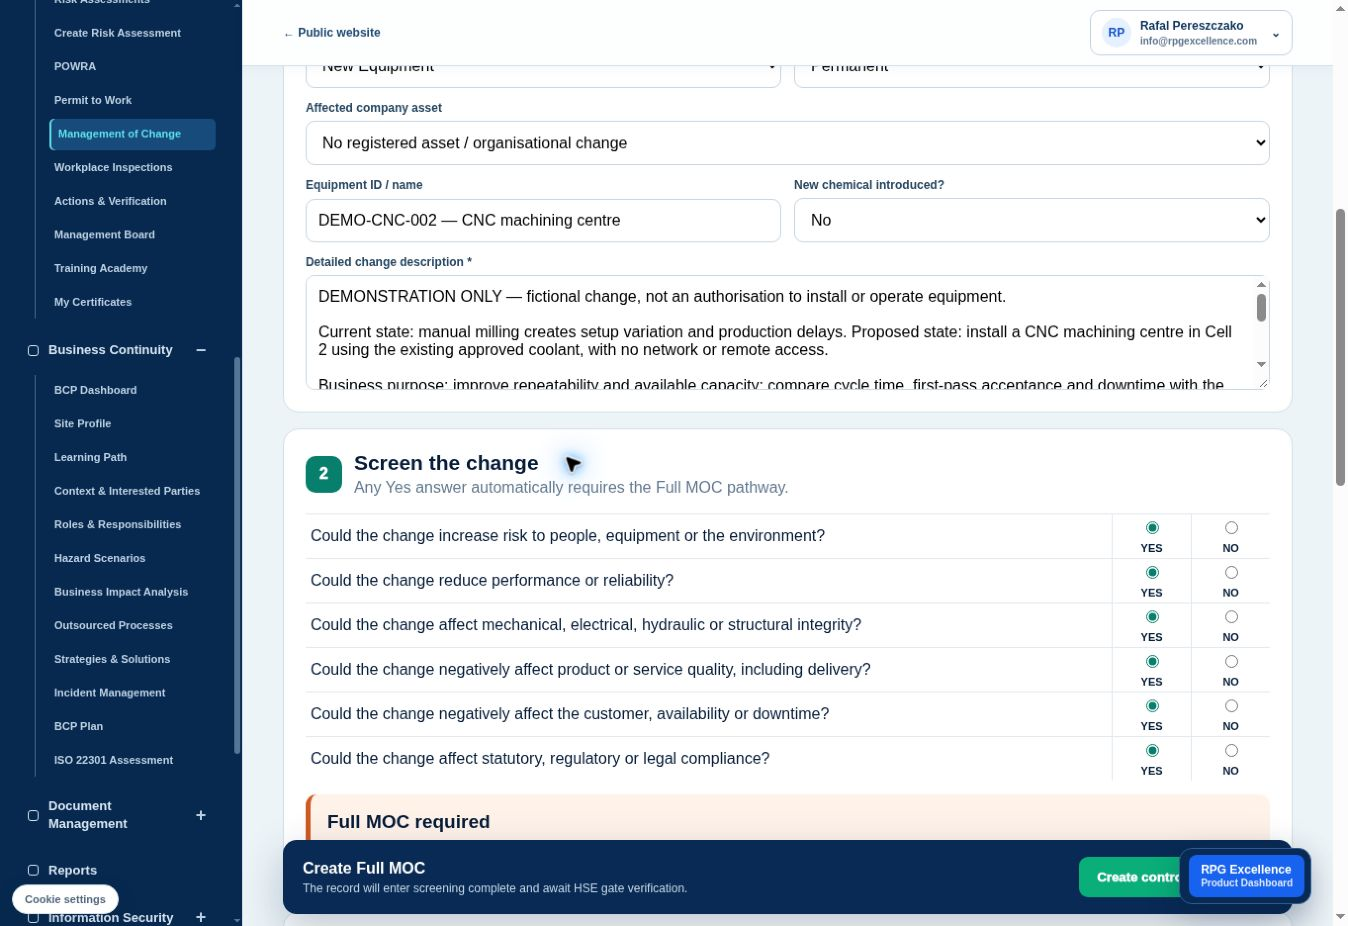
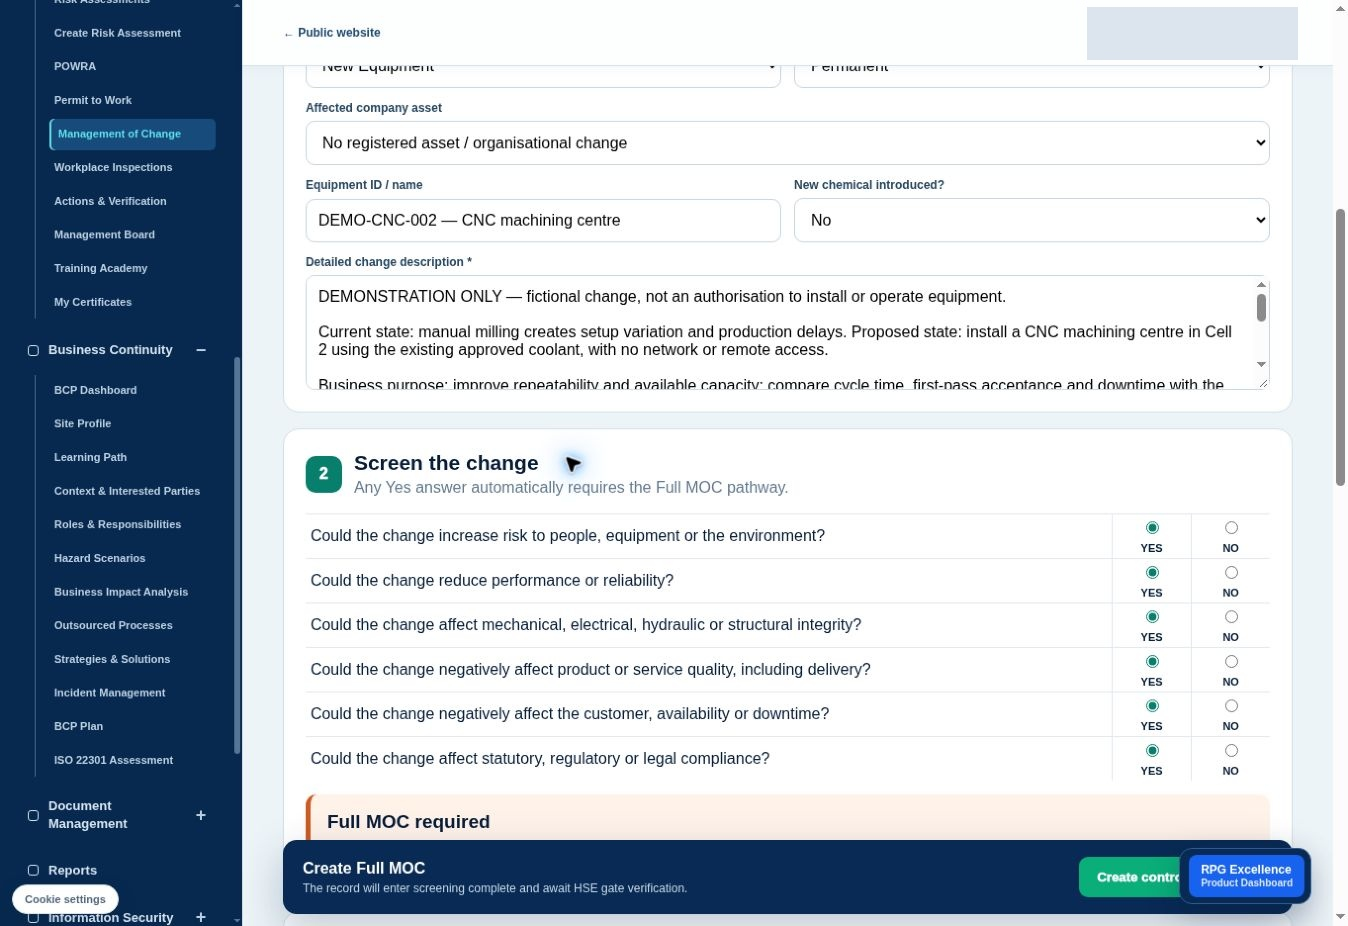
Remove personal name from MOC and risk assessment walkthrough screenshots

Changed region(s): [[0.7789, 0.0, 0.9659, 0.0907]]

diff --git a/app/[locale]/how-it-works/risk-assessments/page.js b/app/[locale]/how-it-works/risk-assessments/page.js
@@ -13,7 +13,7 @@ export default async function RiskAssessmentWalkthrough({params}){
  <nav className={styles.jump} aria-label="Risk assessment walkthrough sections"><a href="#starting-point">01 / Starting point</a><a href="#inside-workflow">02 / Saved workflow</a><a href="#pdf-outputs">03 / Original &amp; updated PDFs</a></nav>
  <section id="starting-point" className={styles.section} aria-labelledby="start-title"><p className={styles.eyebrow}>01 / FIND YOUR WAY IN</p><h2 id="start-title">Start with the work.<br/>Return to its controlled record.</h2><p className={styles.intro}>The register brings status, residual ratings, open actions and review dates together. Its counts here come from fictional demonstration records.</p><div className={styles.startGrid}><figure className={styles.screen}><a href={asset+'register.jpg'} target="_blank" rel="noreferrer" aria-label="Enlarge risk assessment register"><img src={asset+'register.jpg'} width="1348" height="926" alt="Actual register showing approved version 2 and superseded version 1" loading="lazy"/></a><figcaption>Real register after the demonstration revision. Version 2 is Approved; version 1 is Superseded. Open actions remain visible.</figcaption></figure><div className={styles.entrySteps}><article><span>01</span><div><h3>Open the H&amp;S dashboard</h3><p>Use Risk Assessments in the platform navigation.</p><Link href="/portal/health-safety">H&amp;S dashboard →</Link></div></article><article><span>02</span><div><h3>Find a saved assessment</h3><p>Search the register or use its Active, Elevated risk, Reviews due, Approved and Archived views.</p><Link href="/portal/health-safety/risk-assessment">Risk register →</Link></div></article><article><span>03</span><div><h3>Create a separate assessment</h3><p>Define the title, task, site, department, assessor and people affected before recording hazards.</p><Link href="/portal/health-safety/risk-assessment/new">New assessment →</Link></div></article></div></div></section>
  <section id="inside-workflow" className={styles.section} aria-labelledby="steps-title"><p className={styles.eyebrow}>02 / INSIDE THE WORKSPACE</p><h2 id="steps-title">Save the assessment.<br/>Review the change.</h2><p className={styles.intro}>Select a card to see where the risk decision, review and revision are recorded.</p><RiskSteps/></section>
- <section id="pdf-outputs" className={styles.section} aria-labelledby="pdf-title"><p className={styles.eyebrow}>03 / ACTUAL RPG-GENERATED OUTPUTS</p><h2 id="pdf-title">The saved version.<br/>The updated PDF.</h2><p className={styles.intro}>These are the original, unmodified files downloaded using Controlled PDF in RPG Excellence. The page previews render their first pages; the downloads contain all three pages.</p><div className={styles.startGrid}>
+ <section id="pdf-outputs" className={styles.section} aria-labelledby="pdf-title"><p className={styles.eyebrow}>03 / ACTUAL RPG-GENERATED OUTPUTS</p><h2 id="pdf-title">The saved version.<br/>The updated PDF.</h2><p className={styles.intro}>These are the original, unmodified files downloaded using Controlled PDF in RPG Excellence. The page previews render their first pages with personal names hidden; the downloads contain all three pages.</p><div className={styles.startGrid}>
  <article><p className={styles.eyebrow}>BEFORE / VERSION 1</p><h3>RA-2026-0001 · Version 1</h3><figure className={styles.screen}><a href={asset+'RA-2026-0001-v1-RPG.pdf'} target="_blank" rel="noreferrer" aria-label="Open original RPG version 1 PDF"><img src={asset+'pdf-v1-preview.png'} width="1600" height="1132" alt="First page of the actual RPG-generated version 1 PDF" loading="lazy"/></a><figcaption>Exported after the demonstration approval and before creating the revision. It shows Approved as the status at export; this record is now Superseded.</figcaption></figure><div className={styles.actions}><a className={styles.primary} href={asset+'RA-2026-0001-v1-RPG.pdf'} download>Download original PDF →</a></div></article>
  <article><p className={styles.eyebrow}>AFTER / VERSION 2</p><h3>RA-2026-0002 · Version 2</h3><figure className={styles.screen}><a href={asset+'RA-2026-0002-v2-RPG.pdf'} target="_blank" rel="noreferrer" aria-label="Open updated RPG version 2 PDF"><img src={asset+'pdf-v2-preview.png'} width="1600" height="1132" alt="First page of the actual updated RPG version 2 PDF with west loading bay scope and SSOW Rev B" loading="lazy"/></a><figcaption>Exported after saving and approving version 2. The revised task scope, consultation proposal and SSOW Rev B reference appear in the native output.</figcaption></figure><div className={styles.actions}><a className={styles.primary} href={asset+'RA-2026-0002-v2-RPG.pdf'} download>Download updated PDF →</a></div></article></div>
  <div className={styles.gates}><article><span>THE RECORDED CHANGE</span><h3>A different delivery route</h3><p>Version 2 adds the fictional west loading bay route and temporary segregation, updates the consultation proposal and changes the safe-system reference to Rev B.</p></article><article><span>THE CONTROLLED HANDOVER</span><h3>Save, review, then export</h3><p>The revision starts as a draft. Save the changes, submit for review and record approval before the Controlled PDF becomes available. Updating the record does not rewrite a PDF already downloaded.</p></article><article><span>THE PRACTICAL VALUE</span><h3>Check the issue you are using</h3><p>The PDF includes a reference, version, approval information, risk evaluation and action plan. Compare those details with the current register before issuing or relying on a copy.</p></article></div>
